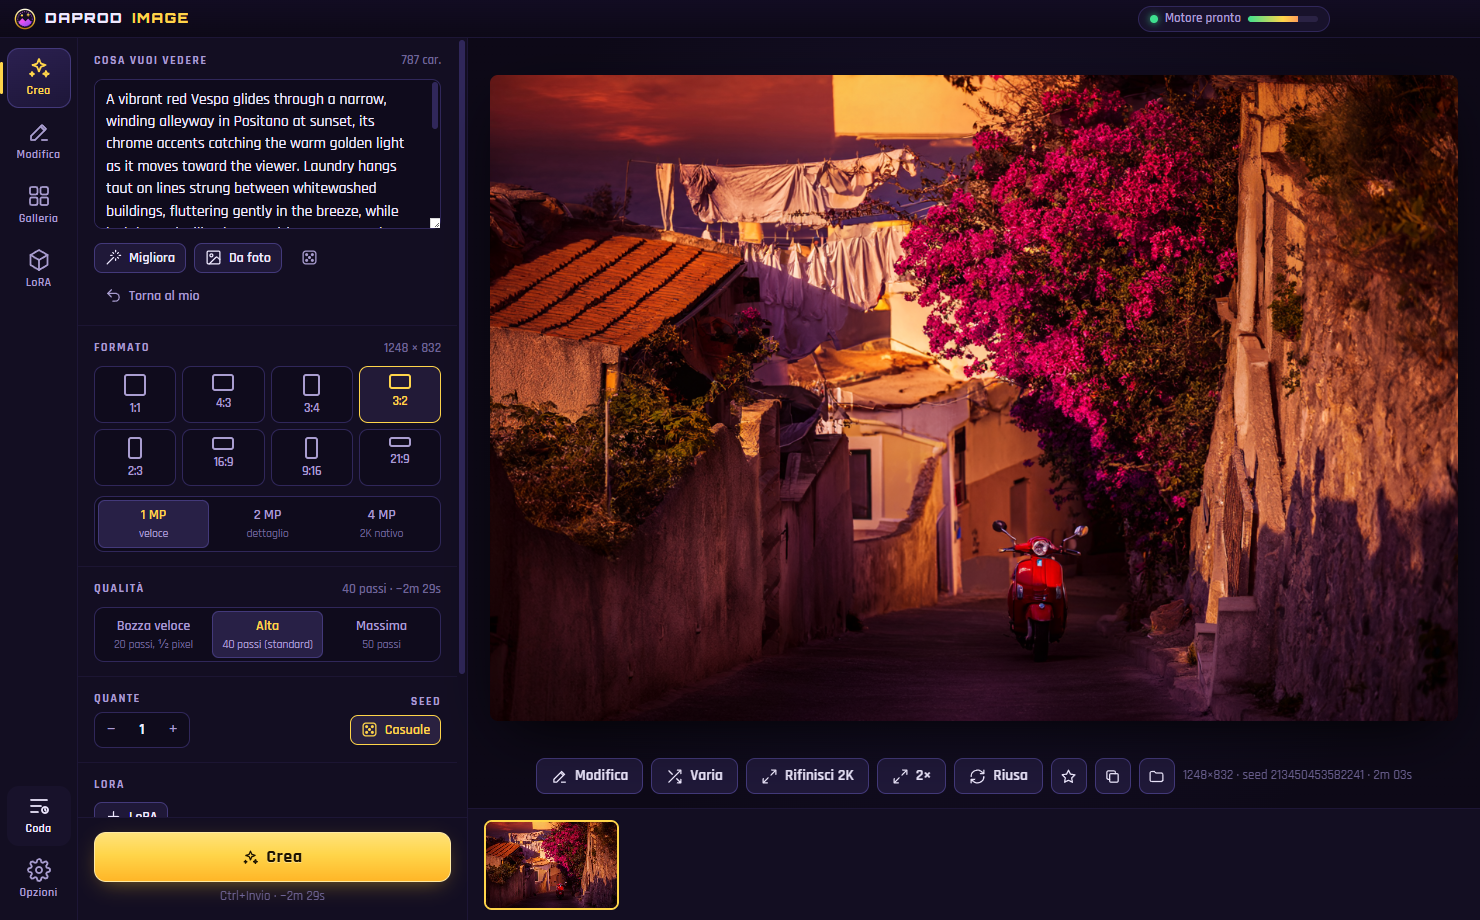
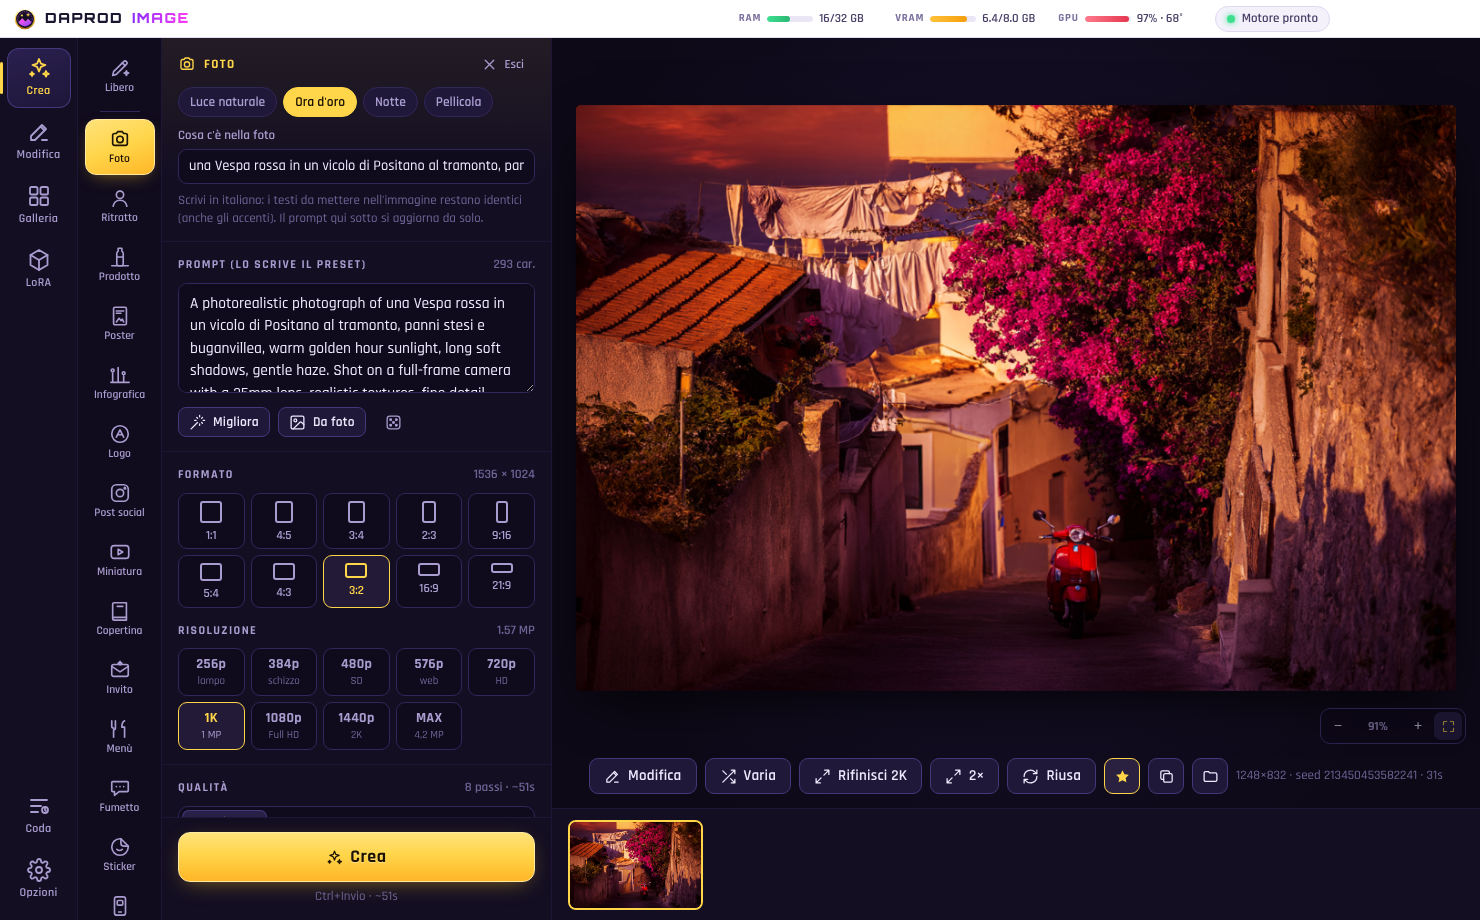
Pagina GitHub: README nuovo, schermate della 0.3, anteprima social e moduli per le issue
- README nello stile di DaP Convertitore: intestazione con icona, badge, scarica, poi Installare,
  Crea, Modifica, Requisiti (col consiglio sul fallback NVIDIA), Come funziona dentro
- schermate rifatte con l'interfaccia 0.3 e le immagini vere generate dall'app (Vespa a Positano,
  tazzina): Crea col preset Foto e il Turbo, preset, galleria, zona e anteprima dal vivo
- risorse/social.png (1280×640) per l'anteprima del repository
- moduli per le issue: "Qualcosa non va" (versione, scheda, log) e "Un'idea"
- Galleria: il suggerimento sui tasti va nel tooltip (in testa non ci stava)

Claude-Session: https://claude.ai/code/session_01K9poJitXQ1x3ZDHxioN2Cf

diff --git a/src/renderer/src/pagine/Galleria.tsx b/src/renderer/src/pagine/Galleria.tsx
@@ -145,7 +145,7 @@ export function Galleria(): JSX.Element {
               <button className="btn piccolo" onClick={() => setScelte(new Set())}>Annulla scelta</button>
             </>
           ) : (
-            <span className="spento piccolo">{importo ? `Importo ${importo} file…` : `${opere.length} immagini · Ctrl+clic: sceglierne più · Ctrl+rotella: grandezza`}</span>
+            <span className="spento piccolo" title="Ctrl+clic per sceglierne più · Ctrl+rotella per la grandezza delle miniature">{importo ? `Importo ${importo} file…` : `${opere.length} immagini`}</span>
           )}
           <input type="range" min={110} max={460} value={lato} style={{ width: 110, ['--p' as string]: `${((lato - 110) / 350) * 100}%` }} onChange={(e) => cambiaLato(Number(e.target.value))} title="Grandezza delle miniature (anche Ctrl+rotella)" />
           <button className="btn piccolo" onClick={async () => { const ps = await api.file.scegliImmagini(true); if (ps.length) await importaFile(ps) }} title="Porta dentro foto dal PC (diventano PNG)"><I.piu /> Importa</button>

diff --git a/README.md b/README.md
@@ -1,72 +1,116 @@
-# DaProd · Image 🎨
+<div align="center">
 
-[![Release](https://img.shields.io/github/v/release/cammo22/DaProdImage?style=flat-square&label=release&color=ff3df2)](https://github.com/cammo22/DaProdImage/releases/latest)
-[![Changelog](https://img.shields.io/badge/📅_Changelog-mantenuto-ffab00?style=flat-square)](CHANGELOG.md)
-[![Electron](https://img.shields.io/badge/Electron-44-47848f?style=flat-square&logo=electron)](https://www.electronjs.org/)
-[![Qwen-Image 2.1](https://img.shields.io/badge/Qwen--Image-2.1-8a2cff?style=flat-square)](https://huggingface.co/Qwen/Qwen-Image-2.1)
-[![Licenza MIT](https://img.shields.io/badge/Licenza-MIT-blue?style=flat-square)](LICENSE)
+<img src="build/icon.png" width="110" alt="DaProd Image">
 
-**Qwen-Image-2.1 sul tuo PC**, con una scheda NVIDIA **da 6-8 GB**. Crei immagini dal testo (anche **poster, infografiche,
-loghi e fumetti** con i preset), **modifichi le foto**
-(tutta la foto con una frase, o **solo la zona che segni col pennello**: il resto resta identico al pixel), le
-**allarghi oltre i bordi**, le **rifinisci in 2K**, accendi i **LoRA con un clic** e ritrovi tutto in **galleria**,
-con dentro ogni PNG le impostazioni per rifarlo.
+# DaProd Image
 
-Gira con il modello [Qwen-Image-2.1 Uncensored GGUF](https://huggingface.co/abenzerps/Qwen-Image-2.1-Uncensored-GGUF)
-(Q4_K_M consigliato per 6-8 GB) e i **passi standard della pipeline ufficiale** (40, euler, CFG 1) per la qualità piena,
-o il **Turbo a 8 passi** (LoRA Turbo8) quando vuoi andare circa 5 volte più veloce.
+**Qwen-Image 2.1 sul tuo PC. Scrivi, segna, fatto.**
 
-![Crea](risorse/crea.png)
+Crei immagini dal testo, anche **poster, infografiche, loghi e fumetti** con i testi scritti giusti.
+Modifichi le foto con una frase, o **solo la zona che segni col pennello**: il resto resta identico al pixel.
+Gira su una scheda NVIDIA **da 6-8 GB**, senza cloud e senza abbonamenti.
 
-| Solo una zona: la segni col pennello | Rimuovi oggetto, con prima/dopo |
+[![versione](https://img.shields.io/github/v/release/cammo22/DaProdImage?label=versione&color=ffd54a&labelColor=1a1428)](https://github.com/cammo22/DaProdImage/releases/latest)
+[![Windows](https://img.shields.io/badge/Windows-10%20·%2011-35e8ff?labelColor=1a1428)](#requisiti)
+[![NVIDIA](https://img.shields.io/badge/NVIDIA-da%206%20GB-5dffb4?labelColor=1a1428)](#requisiti)
+[![Qwen-Image 2.1](https://img.shields.io/badge/Qwen--Image-2.1-8a2cff?labelColor=1a1428)](https://github.com/QwenLM/Qwen-Image-2.1)
+[![ComfyUI](https://img.shields.io/badge/motore-ComfyUI-ff3df2?labelColor=1a1428)](#come-funziona-dentro)
+[![licenza](https://img.shields.io/badge/licenza-MIT-a19db0?labelColor=1a1428)](LICENSE)
+![locale](https://img.shields.io/badge/100%25-locale-5dffb4?labelColor=1a1428)
+
+**[⬇ Scarica per Windows](https://github.com/cammo22/DaProdImage/releases/latest)** ·
+[Tutte le versioni](https://github.com/cammo22/DaProdImage/releases) ·
+[Novità](CHANGELOG.md)
+
+</div>
+
+---
+
+<div align="center">
+<img src="risorse/crea.png" width="860" alt="Crea: il preset Foto a sinistra, risoluzione e Turbo, la Vespa a Positano generata in 8 passi">
+</div>
+
+## Installare
+
+1. Dalla **[ultima versione](https://github.com/cammo22/DaProdImage/releases/latest)** scarica
+   `DaProd-Image-Setup-x.y.z.exe` e aprilo. Se Windows SmartScreen avvisa (l'app non è firmata):
+   *Ulteriori informazioni → Esegui comunque*.
+2. Al primo avvio l'app guarda il PC (scheda, VRAM, RAM, disco) e **trova da sola il modello** se l'hai già
+   scaricato (in Download, Desktop o Documenti): lo usa senza copiarlo.
+3. **Installa e inizia**: scarica il motore (ComfyUI + PyTorch CUDA, ~4 GB) e i file che mancano (text encoder
+   Qwen3-VL, VAE Texture-Fix, 4x-UltraSharp, il decoder delle anteprime), controllando ognuno con lo sha256.
+   Se si interrompe, riparte da lì.
+
+Gli **aggiornamenti** arrivano da soli: l'app li scarica in sottofondo (solo i pezzi cambiati) e propone
+**Riavvia e aggiorna**. Motore, modelli, galleria e LoRA restano dove sono; se serve, il motore si aggiorna da solo.
+
+## Crea
+
+Scrivi cosa vuoi vedere, **anche in italiano**: il prompt si traduce da solo in inglese, la lingua che
+Qwen-Image capisce meglio. I testi fra virgolette, quelli da scrivere nell'immagine, restano identici, accenti compresi.
+
+- **I preset a sinistra**: Foto, Ritratto, Prodotto, **Poster**, **Infografica**, **Logo** (sfondo trasparente),
+  Post social, Miniatura YouTube, Copertina, Invito, **Menù**, **Fumetto**, Sticker, App, Slide, Arte. Ognuno mette
+  formato e risoluzione giusti, chiede due o tre cose in italiano, ha i suoi stili e scrive il prompt da solo.
+- **Risoluzioni da 256p al massimo**: 256p per un'idea in pochi secondi, poi 480p, 720p, 1K, 1080p, 1440p (per i
+  testi piccoli) e MAX, i 4,2 MP del 2K nativo. Formati da 1:1 a 21:9, compresi 4:5 e 9:16.
+- **Turbo**: 8 passi invece di 40 col LoRA di distillazione Turbo8, circa 5 volte più veloce. Si scarica con un clic.
+- **Migliora** riscrive il prompt in un paragrafo ricco; **Da foto** trasforma una foto in prompt.
+- **Bozza → Rifinisci**: esplori tante idee a metà pixel, poi porti quella giusta in alta qualità.
+
+| I preset: infografica, poster, menù… | La galleria, a righe con le proporzioni vere |
 | --- | --- |
-| ![Zona](risorse/zona.png) | ![Modifica](risorse/modifica.png) |
+| ![Preset](risorse/preset.png) | ![Galleria](risorse/galleria.png) |
 
-| Galleria (le impostazioni stanno dentro ogni PNG) | LoRA con un clic |
+## Modifica
+
+- **Tutta la foto** con una frase ("fallo di notte con la neve"), azioni rapide (rimuovi sfondo, restaura, colora
+  il bianco e nero, luce da studio, cambia o traduci i testi, stili) e **fino a 9 foto di riferimento** (`<image2>`…).
+- **Solo una zona**: la segni con pennello, rettangolo o lazo e scrivi cosa farci. Il modello guarda **tutta la foto**
+  con la zona evidenziata e cambia **solo lì**: fuori, la foto resta identica al pixel. Niente cursori da regolare:
+  bordi e sfumatura si adattano alla zona, e se scrivi "rimuovi…" la zona si ripulisce prima di ridisegnarla.
+- **La vedi nascere al suo posto**: l'anteprima dal vivo si posa sulla foto, nitida a ogni passo.
+- **Espandi**: allarga la foto oltre i bordi (16:9, 9:16, quadrata, +25%).
+- Ogni risultato è una **versione**: continui a modificare da lì, passi da una all'altra, tieni premuto per vedere
+  com'era prima, confronti con la linea da trascinare, torni indietro.
+
+| Segni la zona e scrivi cosa farci | …e la vedi cambiare mentre lavora |
 | --- | --- |
-| ![Galleria](risorse/galleria.png) | ![LoRA](risorse/lora.png) |
+| ![Zona](risorse/zona.png) | ![Anteprima della zona](risorse/anteprima.png) |
 
-## ▶ Come si installa
+## E poi
 
-1. Scarica **`DaProd-Image-Setup-x.y.z.exe`** dalle [release](https://github.com/cammo22/DaProdImage/releases/latest) e installalo.
-2. Al primo avvio l'app controlla il PC (scheda, VRAM, RAM, disco) e **trova da sola il GGUF** se l'hai già scaricato
-   (in Download, Desktop o Documenti): lo usa senza riscaricarlo.
-3. Premi **Installa e inizia**: scarica il motore (ComfyUI + PyTorch CUDA, ~4 GB) e i file che mancano (text encoder
-   Qwen3-VL 8B, VAE Texture-Fix, 4x-UltraSharp), controllando ogni file con lo sha256. Se si interrompe, riparte da lì.
+- **Galleria**: per giorno, ricerca nei prompt, preferite, visore con zoom a rotella e tutte le impostazioni,
+  **Riusa**, **Varia**, **Rifinisci 2K**, **Ingrandisci 2×/4×**. Le impostazioni stanno dentro ogni PNG: trascini
+  un'immagine fatta con DaProd Image e torna con prompt, seed e LoRA.
+- **Ogni foto entra come PNG**: JPG, WEBP, AVIF, HEIC, TIFF, i RAW delle fotocamere, girata per il verso giusto.
+- **LoRA con un clic**: trascini i `.safetensors` o incolli un link Hugging Face / Civitai, l'app controlla che
+  siano davvero per Qwen-Image 2.1, aggiunge le parole chiave al prompt.
+- **La barra in alto** dice sempre quanta RAM e VRAM stai usando e quanto lavora la scheda video.
 
-Serve: Windows 10/11, NVIDIA (serie 20 o più nuova, driver aggiornati), **16 GB di RAM o più** (32+ consigliati), ~30 GB liberi.
+## Requisiti
 
-**Aggiornamenti**: l'app controlla da sola le release (all'avvio e ogni 6 ore), scarica la versione nuova in sottofondo e
-propone **Riavvia e aggiorna**. Motore, modelli, galleria e LoRA restano dove sono; se serve, il motore si aggiorna da solo.
-L'installer non è firmato: la prima volta Windows SmartScreen chiede conferma (*Ulteriori informazioni → Esegui comunque*).
+- Windows 10 o 11, scheda **NVIDIA** serie 20 o più nuova con i driver aggiornati, **da 6 GB di VRAM** (8 consigliati).
+- **16 GB di RAM** o più (32 consigliati), circa **30 GB** liberi sul disco.
 
-## ✨ Cosa fa
+**Ci mette minuti per una foto?** Quasi sempre è la VRAM finita: Windows continua nella RAM del PC e tutto va 5-10
+volte più piano senza dare errori. Nel *Pannello di controllo NVIDIA → Gestisci impostazioni 3D* metti
+*Criterio di fallback della memoria di sistema CUDA* su **Preferisci nessun fallback**, poi usa il **Turbo** e,
+se la scheda è da 6 GB, il profilo **6 GB** in Opzioni. L'app ti avvisa da sola quando va troppo piano.
 
-| Pagina | |
-| --- | --- |
-| **Crea** | Testo → immagine, formati da 1:1 a 21:9 (anche 4:5), risoluzioni da **256p** a **MAX (4,2 MP, 2K nativo)**. **Preset a sinistra**: Foto, Ritratto, Prodotto, Poster, Infografica, Logo, Post social, Miniatura, Copertina, Invito, Menù, Fumetto, Sticker, App, Slide, Arte: campi in italiano, stili, e il prompt si scrive da solo. **Migliora** riscrive il prompt (anche in italiano) in un paragrafo ricco; **Da foto** trasforma una foto in prompt. Sfondo **trasparente** (PNG con alfa nativo). Più immagini in coda con seed diversi. |
-| **Turbo** | 8 passi invece di 40 col LoRA Turbo8 (si scarica con un clic): circa 5 volte più veloce, anche su 6 GB. |
-| **Bozza veloce** | 20 passi a metà pixel per esplorare tante idee in poco tempo, poi **Rifinisci** porta la bozza scelta alla grandezza piena ridisegnando i dettagli. |
-| **Modifica** | **Tutta la foto**: una frase ("fallo di notte"), azioni rapide (rimuovi sfondo, restaura, colora, luce da studio, stili…), **fino a 9 foto di riferimento** (`<image2>`…). **Solo una zona**: pennello, gomma, rettangolo, lazo; si lavora solo attorno alla zona e più in grande (molto più dettaglio), e la vedi **nascere al suo posto** con l'anteprima dal vivo; maschera morbida, **riempimento** per rimuovere senza che l'oggetto torni, colori accordati, incollaggio sfumato. **Espandi**: allarga la foto (16:9, 9:16, quadrata, +25%). Ogni risultato è una nuova **versione**, con **prima/dopo**. |
-| **Galleria** | Per giorno, ricerca nei prompt, preferite, visore con tutte le impostazioni, **Riusa**, **Varia**, **Rifinisci 2K**, **Ingrandisci 2×/4×**, confronto con l'originale, trascina fuori le immagini. |
-| **LoRA** | Trascina i `.safetensors` o incolla un link **Hugging Face / Civitai**; clic sulla carta = acceso. Forza, parole chiave (aggiunte da sole al prompt), copertina, e il controllo che sia davvero un LoRA per Qwen-Image 2.1. |
-| **Coda** | Un lavoro dopo l'altro, con anteprima dal vivo, fase, tempo che manca, annulla. |
+## Come funziona dentro
 
-## ⚙ Come funziona dentro
+- Il motore è **ComfyUI** a una versione fissata, senza la sua interfaccia, installato con **uv** in
+  `%LOCALAPPDATA%\DaProdImage`. Il modello è [Qwen-Image 2.1 Uncensored GGUF](https://huggingface.co/abenzerps/Qwen-Image-2.1-Uncensored-GGUF)
+  (Q4_K_M per 6-8 GB) con i passi della pipeline ufficiale (40, euler, CFG 1).
+- **ComfyUI-GGUF** viaggia dentro l'app: il fork di leejet, l'unico che conosce `qwen_image21`, con una nostra
+  correzione per ComfyUI 0.39 (`engine/custom_nodes/ComfyUI-GGUF/DAPROD.md`). I **DaProd-Nodi** riempiono la zona
+  prima di "rimuovi" e accordano i colori dopo il VAE, così l'incollaggio non si vede.
+- Anteprime dal vivo con **TAEQI 2.1** di madebyollin; traduzione dei prompt con lo stesso Qwen3-VL che legge il
+  prompt, quindi senza modelli in più; foto convertite con WIC di Windows, come in [DaP Convertitore](https://github.com/cammo22/DaP-Convertitore).
+- Su una RTX 4060: circa 3 secondi per passo a 1 MP, un'immagine da 40 passi in circa 2 minuti, col Turbo in circa 30 secondi.
 
-- Anteprima dal vivo nitida con **TAEQI 2.1** (madebyollin), traduzione automatica dei prompt in inglese con il Qwen3-VL già
-  caricato, tutte le foto convertite in PNG (HEIC/RAW/TIFF con WIC di Windows, come DaP-Convertitore).
-- Il motore è **ComfyUI** (versione fissata), senza la sua interfaccia, installato con **uv** in `%LOCALAPPDATA%\DaProdImage`.
-- **ComfyUI-GGUF** viaggia dentro l'app: è il fork di leejet (l'unico che conosce `qwen_image21`) con una nostra
-  correzione per ComfyUI 0.39 (vedi `engine/custom_nodes/ComfyUI-GGUF/DAPROD.md`).
-- **DaProd-Nodi** (`engine/custom_nodes/DaProd-Nodi`): due nodi nostri, solo torch, per le zone (riempi la zona prima di
-  ridisegnarla, accorda i colori dopo il VAE).
-- Su 8 GB: il GGUF Q4_K_M sta in VRAM, il text encoder Qwen3-VL lavora dalla RAM, la cache KV di Qwen 2.1 usa lo spazio libero.
-  Su una RTX 4060: ~3 s per passo a 1 MP, un'immagine da 40 passi in ~2 minuti, col Turbo in ~30 secondi.
-- Su 6 GB (profilo automatico): VAE a tessere e un margine di VRAM fisso, così il motore sposta lui i pezzi in RAM.
-  **Se ci mette minuti**: nel Pannello NVIDIA metti *Criterio di fallback della memoria di sistema CUDA* su *Preferisci nessun fallback*.
-
-## 🛠 Per sviluppare
+## Sviluppare
 
 ```bash
 npm install
@@ -74,9 +118,11 @@ npm run prendi-uv
 npm run dev
 ```
 
-`npm run typecheck`, `npm run build`, `npm run dist` (installer in `dist/`). Le regole del progetto sono in [CLAUDE.md](CLAUDE.md).
+`npm run typecheck`, `npm run build`, `npm run dist` (installer in `dist/`). Una versione nuova si pubblica da sola
+quando su `main` arriva un `version` nuovo in `package.json`. Le regole del progetto sono in [CLAUDE.md](CLAUDE.md).
 
 ## Licenze
 
-App: MIT. Qwen-Image 2.1: Qwen Research License. ComfyUI: GPL-3.0. ComfyUI-GGUF: Apache-2.0. 4x-UltraSharp: CC-BY-NC-SA 4.0.
-Texture-Fix VAE: Qwen Research License. Il modello "Uncensored" non ha filtri: quello che generi è responsabilità tua.
+App: MIT. Qwen-Image 2.1 e Texture-Fix VAE: Qwen Research License. ComfyUI: GPL-3.0. ComfyUI-GGUF: Apache-2.0.
+4x-UltraSharp: CC-BY-NC-SA 4.0. TAESD/TAEQI: MIT. Turbo8: vedi la sua [pagina](https://huggingface.co/chriswritescode/Turbo8-LoRA-Qwen-Image-2.1).
+Il modello "Uncensored" non ha filtri: quello che generi è responsabilità tua.
